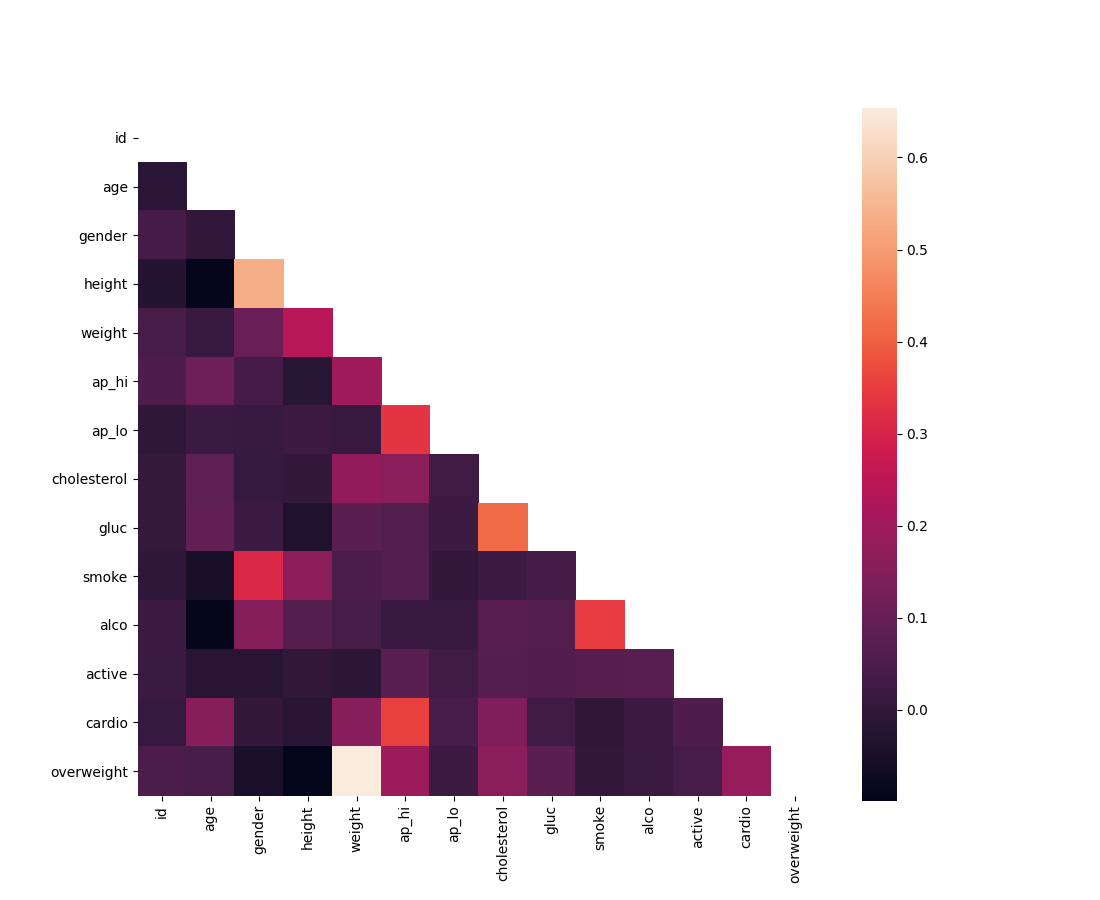
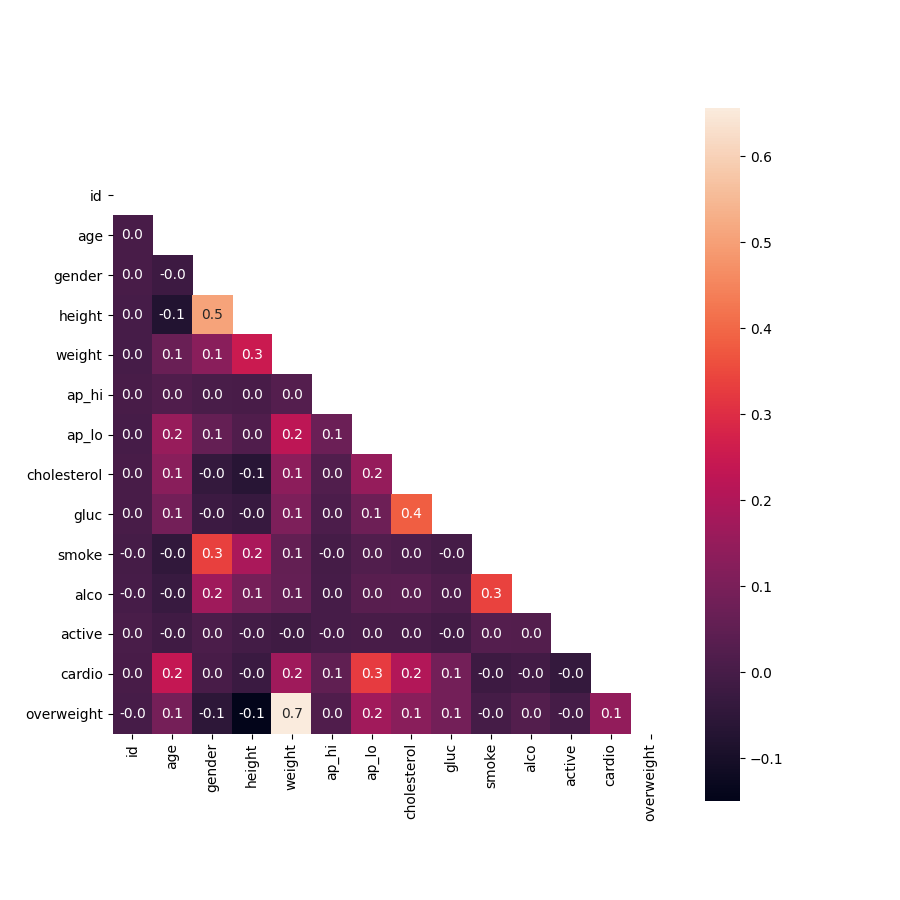
Corrected heatmap func to meet tests

Changed region(s): [[0.0311, 0.1556, 0.7467, 0.9644], [0.8089, 0.1244, 0.8711, 0.9022]]

diff --git a/medical_data_visualizer.py b/medical_data_visualizer.py
@@ -35,19 +35,23 @@ def draw_cat_plot():
 # Draw Heat Map
 def draw_heat_map():
     # Cleaning the data so no erroneous or outliers patients are included
-    df_heat = df.drop(df[(df.ap_lo <= df.ap_hi) | (df.height <= df.height.quantile(0.025)) | (df.height >= df.height.quantile(0.975)) | (df.weight <= df.weight.quantile(0.025)) | (df.weight >= df.weight.quantile(0.975))].index)
+    df_heat = df[(df.ap_lo <= df.ap_hi) &
+                 (df.height >= df.height.quantile(0.025)) &
+                 (df.height <= df.height.quantile(0.975)) &
+                 (df.weight >= df.weight.quantile(0.025)) &
+                 (df.weight <= df.weight.quantile(0.975))]
 
     # Establishing the correlation matrix
-    corr = df_heat.corr(method='pearson')
+    corr = df_heat.corr()
 
     # Generating a mask for the upper triangle
-    mask = np.triu(np.ones_like(corr, dtype=bool))
+    mask = np.triu(corr)
 
     # Set up the matplotlib figure
-    fig, ax = plt.subplots(figsize=(11,9))
+    fig, ax = plt.subplots(figsize=(9, 9))
 
     # Draw the heatmap with 'sns.heatmap()'
-    sns.heatmap(corr, mask=mask, square=True)
+    sns.heatmap(corr, mask=mask, square=True, annot=True, fmt=".1f")
 
 
     # Do not modify the next two lines

diff --git a/main.py b/main.py
@@ -2,9 +2,8 @@
 import medical_data_visualizer
 from unittest import main
 
-# Test your function by calling it here
-#medical_data_visualizer.draw_cat_plot()
+medical_data_visualizer.draw_cat_plot()
 medical_data_visualizer.draw_heat_map()
 
 # Run unit tests automatically
-#main(module='test_module', exit=False)
+main(module='test_module', exit=False)
